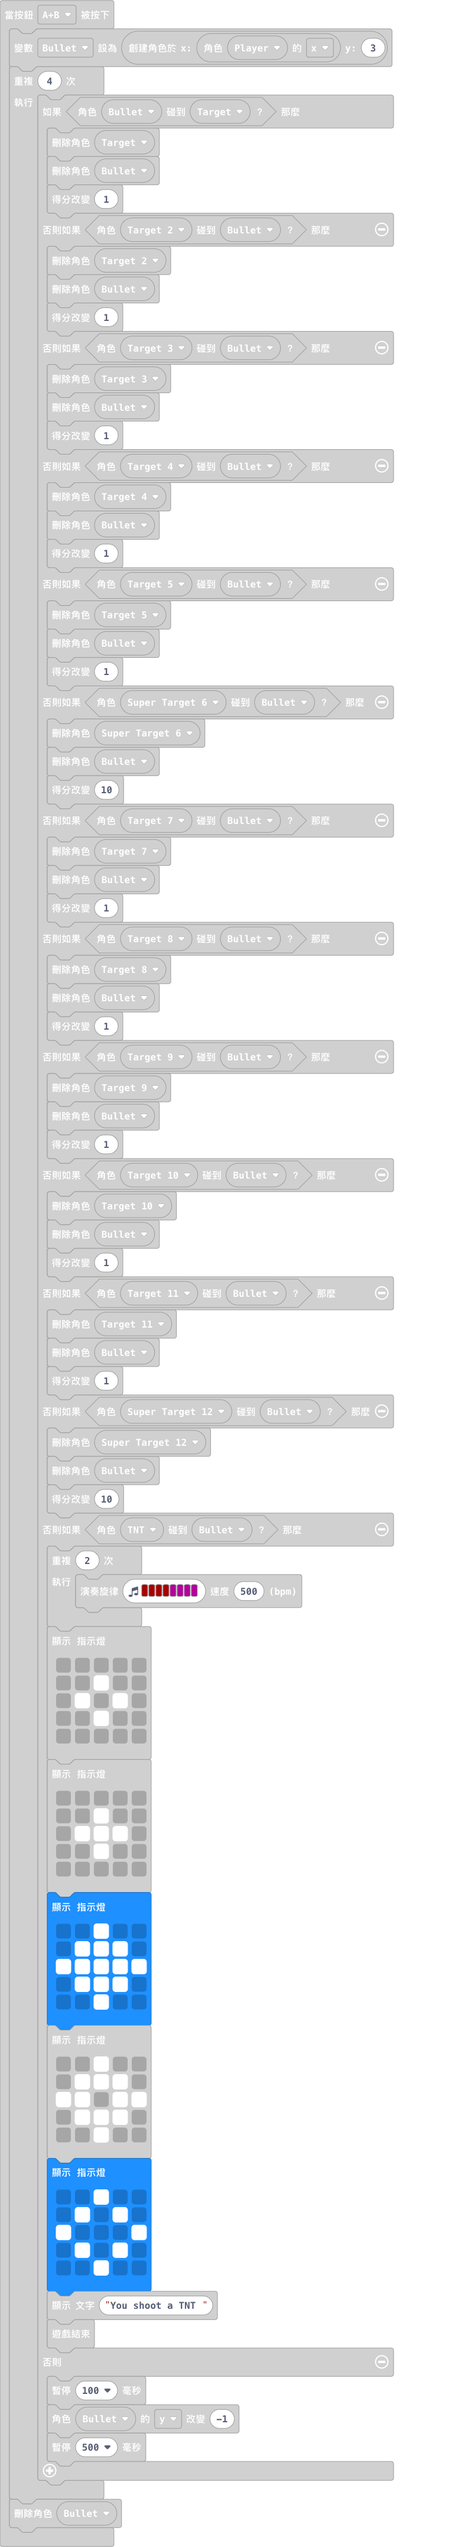
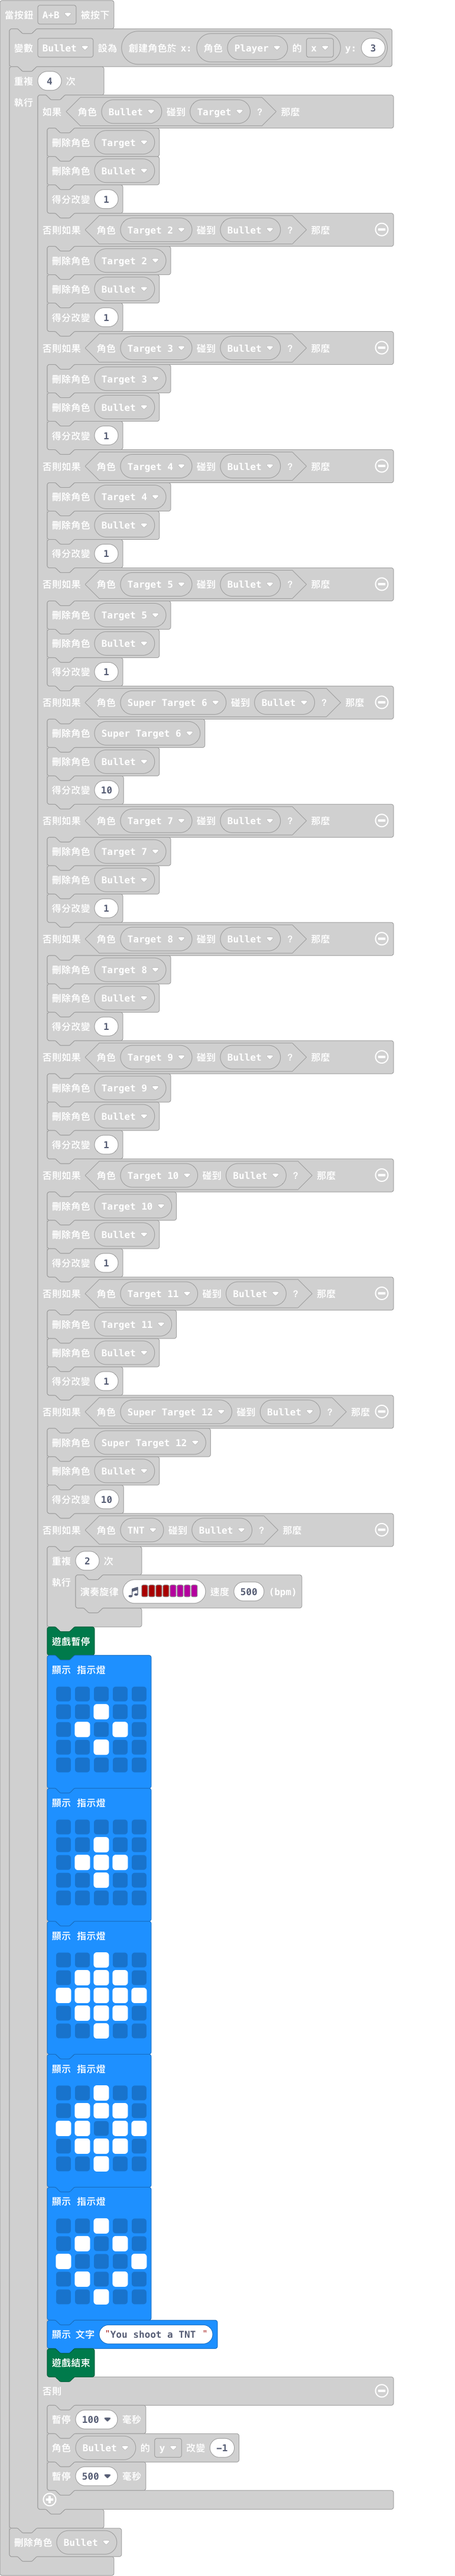
更新 main.blocks, main.ts, main.py

Changed region(s): [[0.0935, 0.0311, 0.8727, 0.964], [0.4364, 0.0311, 0.5299, 0.0622]]

diff --git a/main.ts b/main.ts
@@ -57,6 +57,7 @@ input.onButtonPressed(Button.AB, function () {
             for (let index = 0; index < 2; index++) {
                 music.playMelody("C5 C5 C5 C5 C C C C ", 500)
             }
+            game.pause()
             basic.showLeds(`
                 . . . . .
                 . . # . .

diff --git a/main.py b/main.py
@@ -74,9 +74,9 @@ def on_button_pressed_ab():
             """)
             basic.show_leds("""
                 . . # . .
-                                . # . # .
-                                # . . . #
-                                . # . # .
+                                . # # # .
+                                # # # # #
+                                . # # # .
                                 . . # . .
             """)
             basic.show_leds("""
@@ -88,9 +88,9 @@ def on_button_pressed_ab():
             """)
             basic.show_leds("""
                 . . # . .
-                                . # # # .
-                                # # # # #
-                                . # # # .
+                                . # . # .
+                                # . . . #
+                                . # . # .
                                 . . # . .
             """)
             basic.show_string("You shoot a TNT ")
